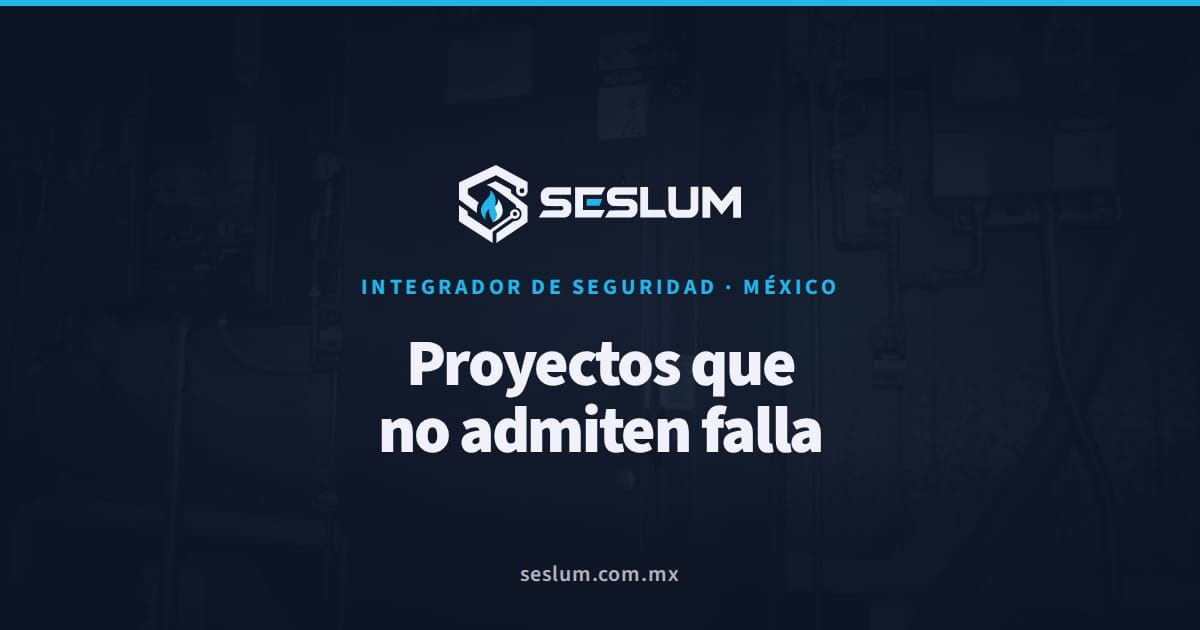
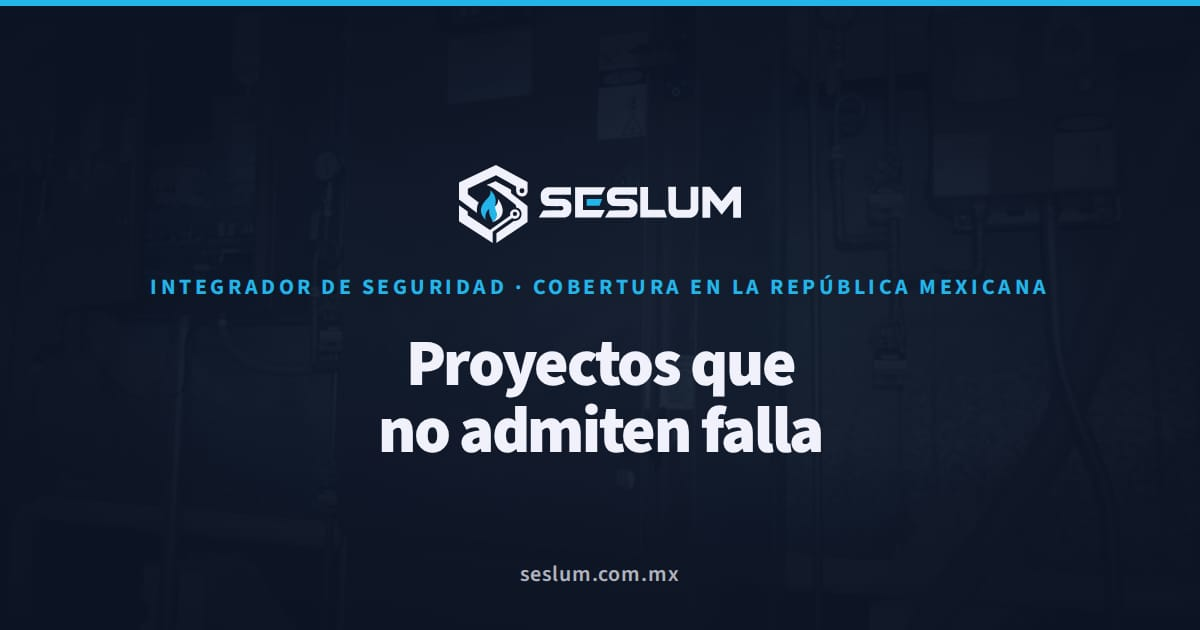
content(hero): cobertura nacional, descripción en dos líneas y enlace a Servicios

Changed region(s): [[0.1233, 0.4222, 0.8942, 0.4825]]

diff --git a/src/sections/Hero/Hero.tsx b/src/sections/Hero/Hero.tsx
@@ -1,6 +1,7 @@
 /**
  * Encabezado: foto de obra a pantalla completa con el tratamiento de color de la
- * marca, título, llamadas a la acción y el panel de líneas integradas.
+ * marca, título, descripción (una frase por línea), llamadas a la acción y el
+ * panel de líneas integradas, cuyo pie enlaza a Servicios.
  *
  * Se renderiza en el servidor. La entrada es CSS puro, así se ve animada desde
  * el primer pintado sin esperar a JavaScript; solo el parallax del scroll vive
@@ -60,7 +61,13 @@ export function Hero({ content }: HeroProps) {
               </Fragment>
             ))}
           </h1>
-          <p className={styles.lead}>{content.lead}</p>
+          <p className={styles.lead}>
+            {content.lead.map((line) => (
+              <span key={line} className={styles.leadLine}>
+                {line}
+              </span>
+            ))}
+          </p>
           <div className={styles.actions}>
             <ButtonLink href={content.primaryCta.href}>{content.primaryCta.label}</ButtonLink>
             <ButtonLink href={content.secondaryCta.href} variant="outline">
@@ -82,7 +89,9 @@ export function Hero({ content }: HeroProps) {
               </li>
             ))}
           </ul>
-          <p className={styles.more}>{panel.more}</p>
+          <a className={styles.more} href={panel.more.href}>
+            {panel.more.label}
+          </a>
         </aside>
       </div>
 

diff --git a/src/sections/Hero/Hero.module.css b/src/sections/Hero/Hero.module.css
@@ -196,10 +196,26 @@
   animation-delay: calc(var(--delay-enter) * 12 + var(--line-index, 0) * var(--delay-enter) * 1.5);
 }
 
+.leadLine {
+  display: block;
+  text-wrap: pretty;
+}
+
 .more {
-  margin-top: var(--space-3);
-  color: var(--color-text-subtle);
+  display: inline-flex;
+  align-items: center;
+  min-height: var(--tap-target-min);
+  margin-top: var(--space-1);
+  color: var(--color-accent);
   font-size: var(--fs-small);
+  font-weight: var(--fw-semibold);
+  text-decoration: underline;
+  text-underline-offset: 0.2em;
+  transition: color var(--duration-fast) var(--ease-out);
+}
+
+.more:hover {
+  color: var(--color-accent-hover);
 }
 
 @media (min-width: 768px) {

diff --git a/src/types/content.ts b/src/types/content.ts
@@ -105,14 +105,14 @@ export interface HeroContent {
   readonly id: string;
   readonly eyebrow: string;
   readonly title: string;
-  readonly lead: string;
+  readonly lead: readonly string[];
   readonly primaryCta: LinkAction;
   readonly secondaryCta: LinkAction;
   readonly image: ImageAsset;
   readonly panel: {
     readonly title: string;
     readonly lines: readonly string[];
-    readonly more: string;
+    readonly more: LinkAction;
   };
 }
 

diff --git a/README.md b/README.md
@@ -187,11 +187,15 @@ Principio: cada archivo tiene una sola razón para cambiar. Detalle del proyecto
   desaturación (0.34) va horneada en la imagen y el tinte azul `#114E81` al 42 %
   es una capa plana en CSS; encima, un velo vertical en móvil y horizontal desde
   1024 px para que el texto siempre tenga contraste.
-- Título "Proyectos que no admiten falla" con entrada palabra por palabra bajo
-  máscara, subtítulo, CTA "Solicitar cotización" y "Ver proyectos" (variante
-  `outline`, con las esquinas biseladas dibujadas completas).
+- Eyebrow "Integrador de seguridad · Cobertura en la República Mexicana".
+  Título "Proyectos que no admiten falla" con entrada palabra por palabra bajo
+  máscara, descripción en dos frases (una por línea, `lead` es un arreglo en el
+  JSON, con `text-wrap: pretty` para no dejar palabras sueltas), CTA "Solicitar
+  cotización" y "Ver proyectos" (variante `outline`, con las esquinas biseladas
+  dibujadas completas).
 - Panel "Líneas integradas": las luces de estado se encienden en secuencia, con
-  un pulso suave y un barrido de escaneo al entrar.
+  un pulso suave y un barrido de escaneo al entrar. "+ 6 líneas adicionales"
+  enlaza a `#servicios`.
 - La entrada es CSS puro: se ve animada desde el primer pintado, sin esperar a
   JavaScript. El parallax al hacer scroll (la foto baja más lento y el contenido
   se desvanece) es GSAP con carga diferida.
@@ -200,8 +204,9 @@ Principio: cada archivo tiene una sola razón para cambiar. Detalle del proyecto
 - Contenido en `src/content/sections/hero.json`. Original de la foto en
   `assets-src/foto-hero.jpg`; variantes con `node scripts/optimize-image.mjs
   assets-src/foto-hero.jpg public/images/hero/obra-contra-incendio 480,768,1000 --brand`.
-- La foto de banco (1000×520) queda como definitiva por decisión del cliente. Si
-  algún día se cambia, se regeneran las variantes con el mismo comando, sin tocar código.
+- La foto de banco (1000×520) se sustituirá por fotos propias que enviará
+  Javier (observación de la junta del 08/oct), en una rama aparte. Se regeneran
+  las variantes con el mismo comando, sin tocar código, y luego `npm run og:image`.
 
 ### 3 · Servicios
 
@@ -665,6 +670,11 @@ anterior desde el panel de Pages.
   Preguntas frecuentes pasa a fondo oscuro y Contacto a navy, para que con
   Proyectos la página quede navy / oscuro sin dos secciones seguidas del mismo
   fondo (el prototipo tenía Alianzas y FAQ, y Contacto y Footer, juntas).
+- **12/oct/2026** — Observaciones de la junta del 08/oct, una rama por sección.
+  Hero: cobertura en toda la República en el eyebrow, descripción en dos frases
+  ("Soluciones integrales a la medida y acompañamiento durante todo el
+  proyecto") y "+ 6 líneas adicionales" como enlace a Servicios. La foto nueva
+  va en otra rama cuando lleguen las de Javier.
 - **07/oct/2026** — Formulario con Resend + Turnstile en una Pages Function.
   Resend porque autentica un subdominio propio sin tocar el SPF/DMARC estricto
   del correo de GoDaddy, y tiene plan gratuito suficiente. La lógica vive en
